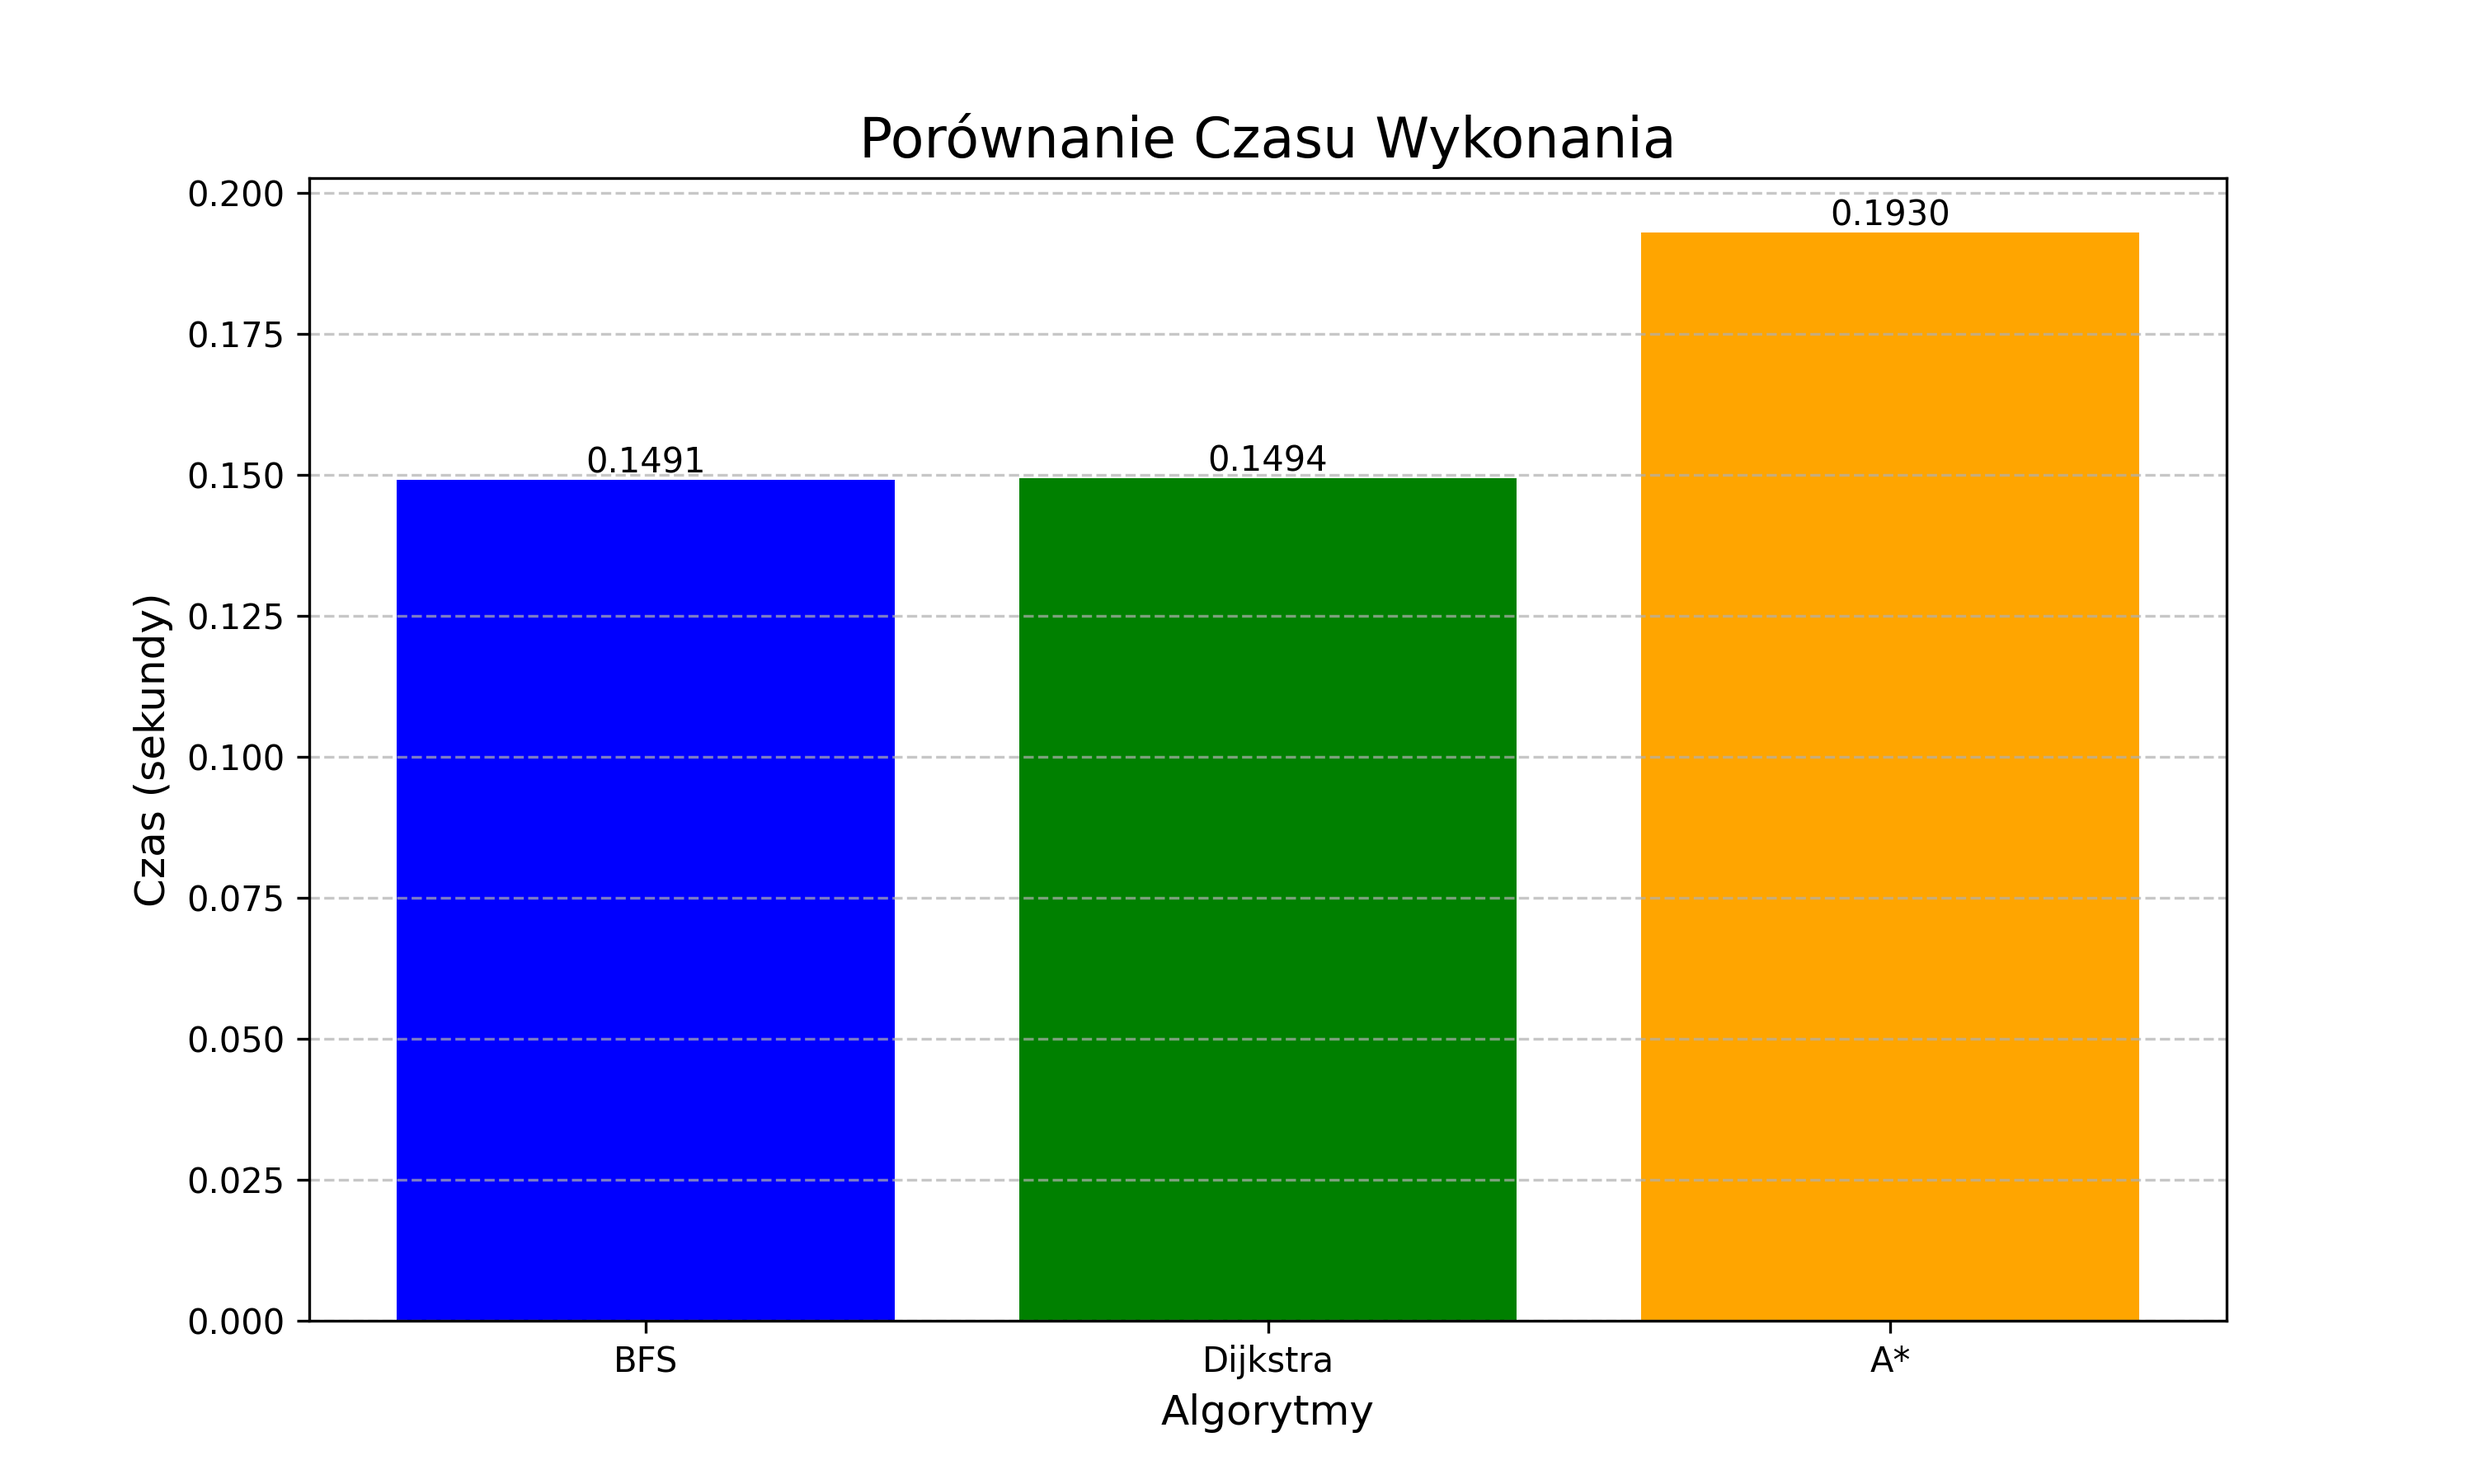
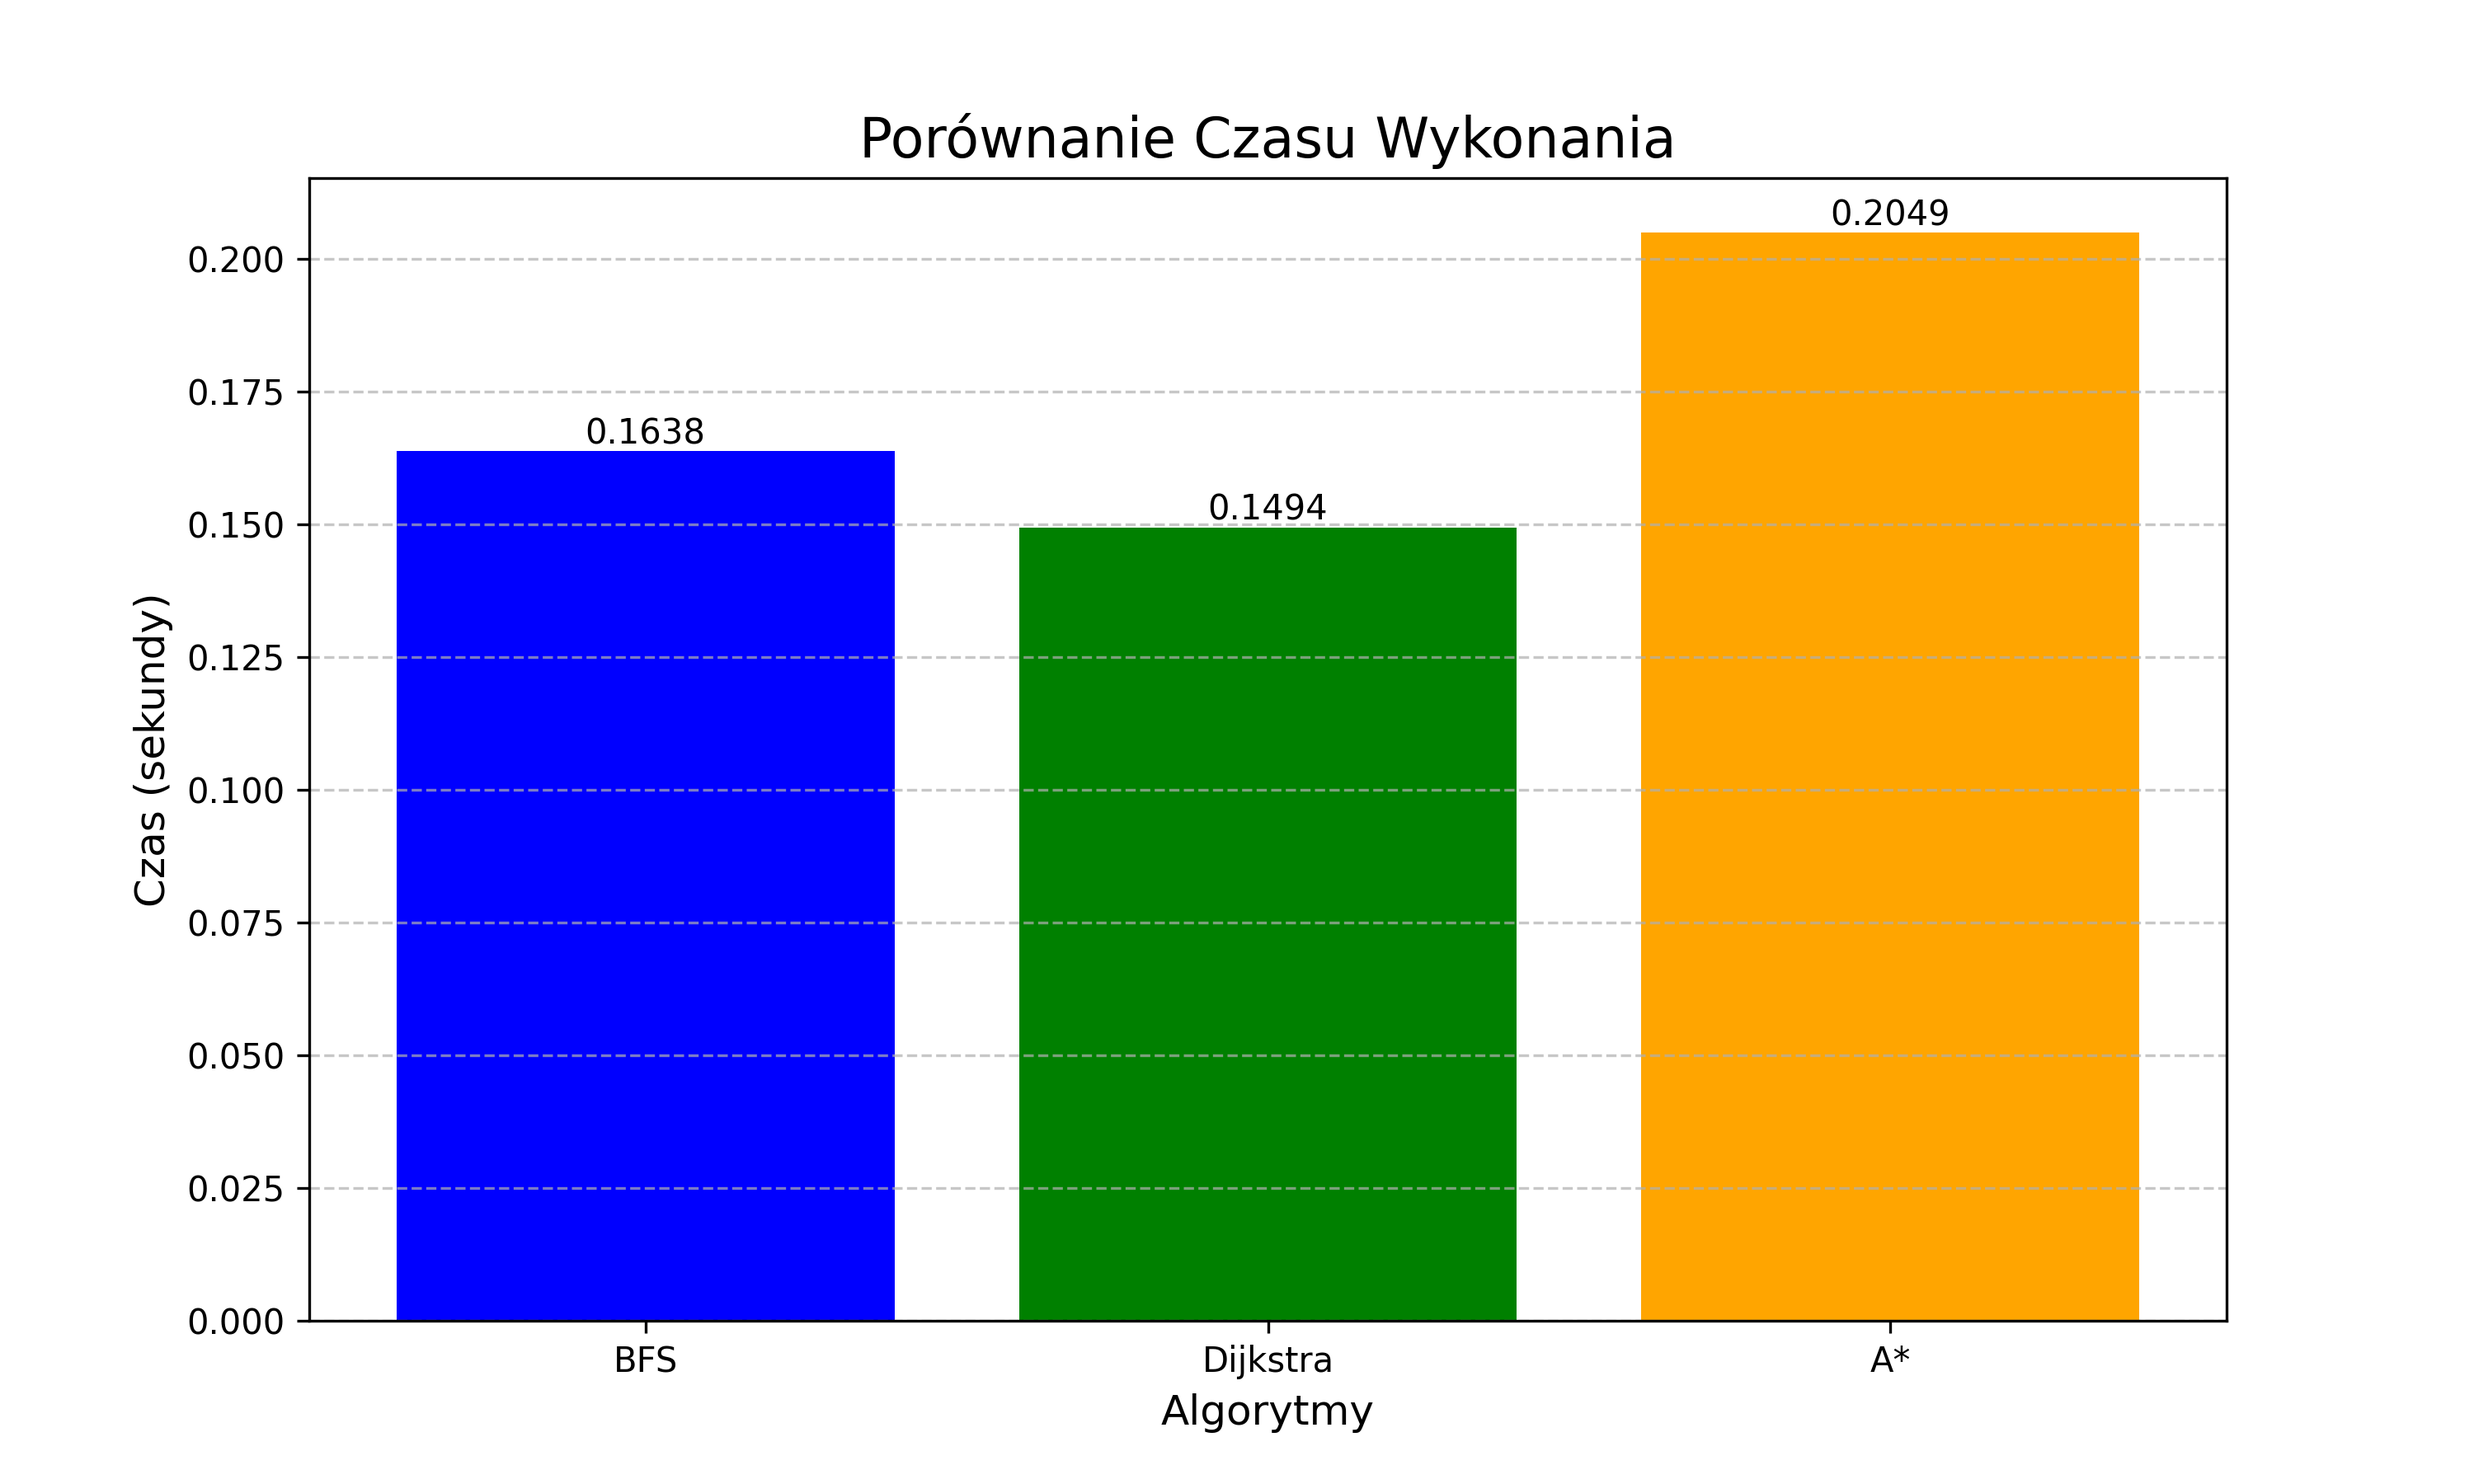
fix lint

diff --git a/main.py b/main.py
@@ -1,9 +1,23 @@
+"""
+Main Module
+
+This module contains the main entry point for running graph visualization
+and comparing pathfinding algorithms (BFS, Dijkstra, and A*).
+"""
+
+import random
 import matplotlib.pyplot as plt
-from graph_utils import initialize_graph_with_distant_points, GraphStyler, GraphProcessor
+from graph_utils import initialize_graph, GraphStyler, GraphProcessor
 from algorithms import BFSAlgorithm, DijkstraAlgorithm, AStarAlgorithm
 
-def plot_comparisons(results, save_path=None):
-    """Create enhanced bar charts for cost and execution time comparisons."""
+
+def plot_comparisons(results):
+    """
+    Create enhanced bar charts for cost and execution time comparisons.
+
+    Args:
+        results (dict): A dictionary containing algorithm results (cost, time, etc.).
+    """
     # Extract data
     algorithms = list(results.keys())
     costs = [results[algo]["cost"] for algo in algorithms]
@@ -12,69 +26,66 @@ def plot_comparisons(results, save_path=None):
     # Plot costs
     plt.figure(figsize=(10, 6))
     bars = plt.bar(algorithms, costs, color=["blue", "green", "orange"])
-    plt.title("Porównanie Kosztów", fontsize=16)
-    plt.ylabel("Koszt całkowity", fontsize=12)
-    plt.xlabel("Algorytmy", fontsize=12)
+    plt.title("Cost Comparison", fontsize=16)
+    plt.ylabel("Total Cost", fontsize=12)
+    plt.xlabel("Algorithms", fontsize=12)
     plt.grid(axis="y", linestyle="--", alpha=0.7)
     plt.xticks(fontsize=10)
     plt.yticks(fontsize=10)
 
     # Add values on top of bars
-    for bar in bars:
+    for bar_segment in bars:  # Replaced "bar" with "bar_segment"
         plt.text(
-            bar.get_x() + bar.get_width() / 2,
-            bar.get_height(),
-            f"{bar.get_height():.2f}",
+            bar_segment.get_x() + bar_segment.get_width() / 2,
+            bar_segment.get_height(),
+            f"{bar_segment.get_height():.2f}",
             ha="center",
             va="bottom",
             fontsize=10,
             color="black",
         )
-
-    # Save chart if save_path is provided
-    if save_path:
-        plt.savefig(f"{save_path}_costs.png", dpi=300)
-        print(f"Cost comparison chart saved as {save_path}_costs.png")
 
     plt.show()
 
     # Plot execution times
     plt.figure(figsize=(10, 6))
     bars = plt.bar(algorithms, times, color=["blue", "green", "orange"])
-    plt.title("Porównanie Czasu Wykonania", fontsize=16)
-    plt.ylabel("Czas (sekundy)", fontsize=12)
-    plt.xlabel("Algorytmy", fontsize=12)
+    plt.title("Execution Time Comparison", fontsize=16)
+    plt.ylabel("Time (seconds)", fontsize=12)
+    plt.xlabel("Algorithms", fontsize=12)
     plt.grid(axis="y", linestyle="--", alpha=0.7)
     plt.xticks(fontsize=10)
     plt.yticks(fontsize=10)
 
     # Add values on top of bars
-    for bar in bars:
+    for bar_segment in bars:  # Replaced "bar" with "bar_segment"
         plt.text(
-            bar.get_x() + bar.get_width() / 2,
-            bar.get_height(),
-            f"{bar.get_height():.4f}",
+            bar_segment.get_x() + bar_segment.get_width() / 2,
+            bar_segment.get_height(),
+            f"{bar_segment.get_height():.4f}",
             ha="center",
             va="bottom",
             fontsize=10,
             color="black",
         )
 
-    # Save chart if save_path is provided
-    if save_path:
-        plt.savefig(f"{save_path}_times.png", dpi=300)
-        print(f"Time comparison chart saved as {save_path}_times.png")
-
     plt.show()
 
-def main():
-    """Creates an example graph and runs pathfinding algorithms with visualizations."""
-    # Inicjalizacja grafu i węzłów startowych/końcowych
-    graph, start_node, end_node = initialize_graph_with_distant_points("Warsaw, Poland")
 
-    # Inicjalizacja obiektów do stylizacji
+def main():
+    """
+    Main function to initialize the graph, run algorithms, and visualize results.
+    """
+    # Ustawienie miejsca, dla którego generujemy graf
+    place = "Gliwice, Poland"
+    graph = initialize_graph(place)
+
+    # Inicjalizacja obiektów do stylizacji i wizualizacji
     styler = GraphStyler()
 
+    # Losowy wybór węzłów startowego i końcowego
+    start_node = random.choice(list(graph.nodes))
+    end_node = random.choice(list(graph.nodes))
     print(f"Start: {start_node}, End: {end_node}")
 
     # Przechowuje wyniki algorytmów
@@ -107,8 +118,9 @@ def main():
     results["A*"] = {"path": result_a[0], "cost": result_a[1], "time": result_a[2]}
     print("A* completed.")
 
-    # Visualize comparisons and save charts
-    plot_comparisons(results, save_path="algorithm_comparison")
+    # Visualize comparisons
+    plot_comparisons(results)
+
 
 if __name__ == "__main__":
     main()

diff --git a/graph_utils.py b/graph_utils.py
@@ -1,10 +1,16 @@
-"""File containing graph's classes and methods."""
-from io import BytesIO
+"""
+Graph Utilities Module
+
+This module provides functions for graph initialization, styling, and processing
+to support pathfinding algorithms and visualizations.
+"""
+
+import random
+from io import BytesIO  # Fixed missing import for BytesIO
 from PIL import Image
 import matplotlib.pyplot as plt
 import osmnx as ox
 import networkx as nx
-import random
 
 
 class GraphStyler:
@@ -33,6 +39,12 @@ class GraphVisualizer:
     """Manages visualization and GIF creation for a graph."""
 
     def __init__(self, graph):
+        """
+        Initializes the visualizer with a graph.
+
+        Args:
+            graph (networkx.Graph): The graph to visualize.
+        """
         self.graph = graph
         self.frames = []  # Stores frames for GIF generation
 
@@ -49,9 +61,8 @@ class GraphVisualizer:
                 self.graph.edges[edge].get("color", "#2432B0") for edge in self.graph.edges
             ],
             edge_alpha=[self.graph.edges[edge].get("alpha", 0.3) for edge in self.graph.edges],
-            edge_linewidth=[
-                self.graph.edges[edge].get("linewidth", 0.5) for edge in self.graph.edges
-            ],
+            edge_linewidth=
+            [self.graph.edges[edge].get("linewidth", 0.5) for edge in self.graph.edges],
             node_color="white",
             bgcolor="#0F1126",
             show=False,
@@ -66,7 +77,12 @@ class GraphVisualizer:
         plt.close(fig)
 
     def save_gif(self, gif_filename: str, duration: int = 100):
-        """Generates a GIF from the captured frames."""
+        """Generates a GIF from the captured frames.
+
+        Args:
+            gif_filename (str): The name of the GIF file to save.
+            duration (int): Duration of each frame in milliseconds.
+        """
         if self.frames:
             self.frames[0].save(
                 gif_filename,
@@ -109,7 +125,14 @@ class GraphProcessor:
 
 
 def initialize_graph(place_name: str):
-    """Initializes the graph, ensures connectivity, and sets edge weights."""
+    """Initializes the graph, ensures connectivity, and sets edge weights.
+
+    Args:
+        place_name (str): Name of the location to generate the graph.
+
+    Returns:
+        networkx.Graph: A graph initialized for the given place.
+    """
     print(f"Initializing graph for: {place_name}...")
     graph = ox.graph_from_place(place_name, network_type="drive")
 
@@ -136,7 +159,15 @@ def initialize_graph(place_name: str):
 
 
 def select_distant_nodes(graph, min_distance=32000):
-    """Select two nodes in the graph that are at least min_distance apart."""
+    """Select two nodes in the graph that are at least min_distance apart.
+
+    Args:
+        graph (networkx.Graph): The graph to search within.
+        min_distance (int): Minimum distance between the nodes.
+
+    Returns:
+        tuple: A pair of node identifiers.
+    """
     nodes = list(graph.nodes)
     while True:
         start = random.choice(nodes)
@@ -151,6 +182,14 @@ def select_distant_nodes(graph, min_distance=32000):
 
 
 def initialize_graph_with_distant_points(place_name="Warsaw, Poland"):
+    """Initializes a graph and selects distant points.
+
+    Args:
+        place_name (str): Name of the location to generate the graph.
+
+    Returns:
+        tuple: A graph and two distant nodes.
+    """
     graph = initialize_graph(place_name)
     start, end = select_distant_nodes(graph)
     return graph, start, end
